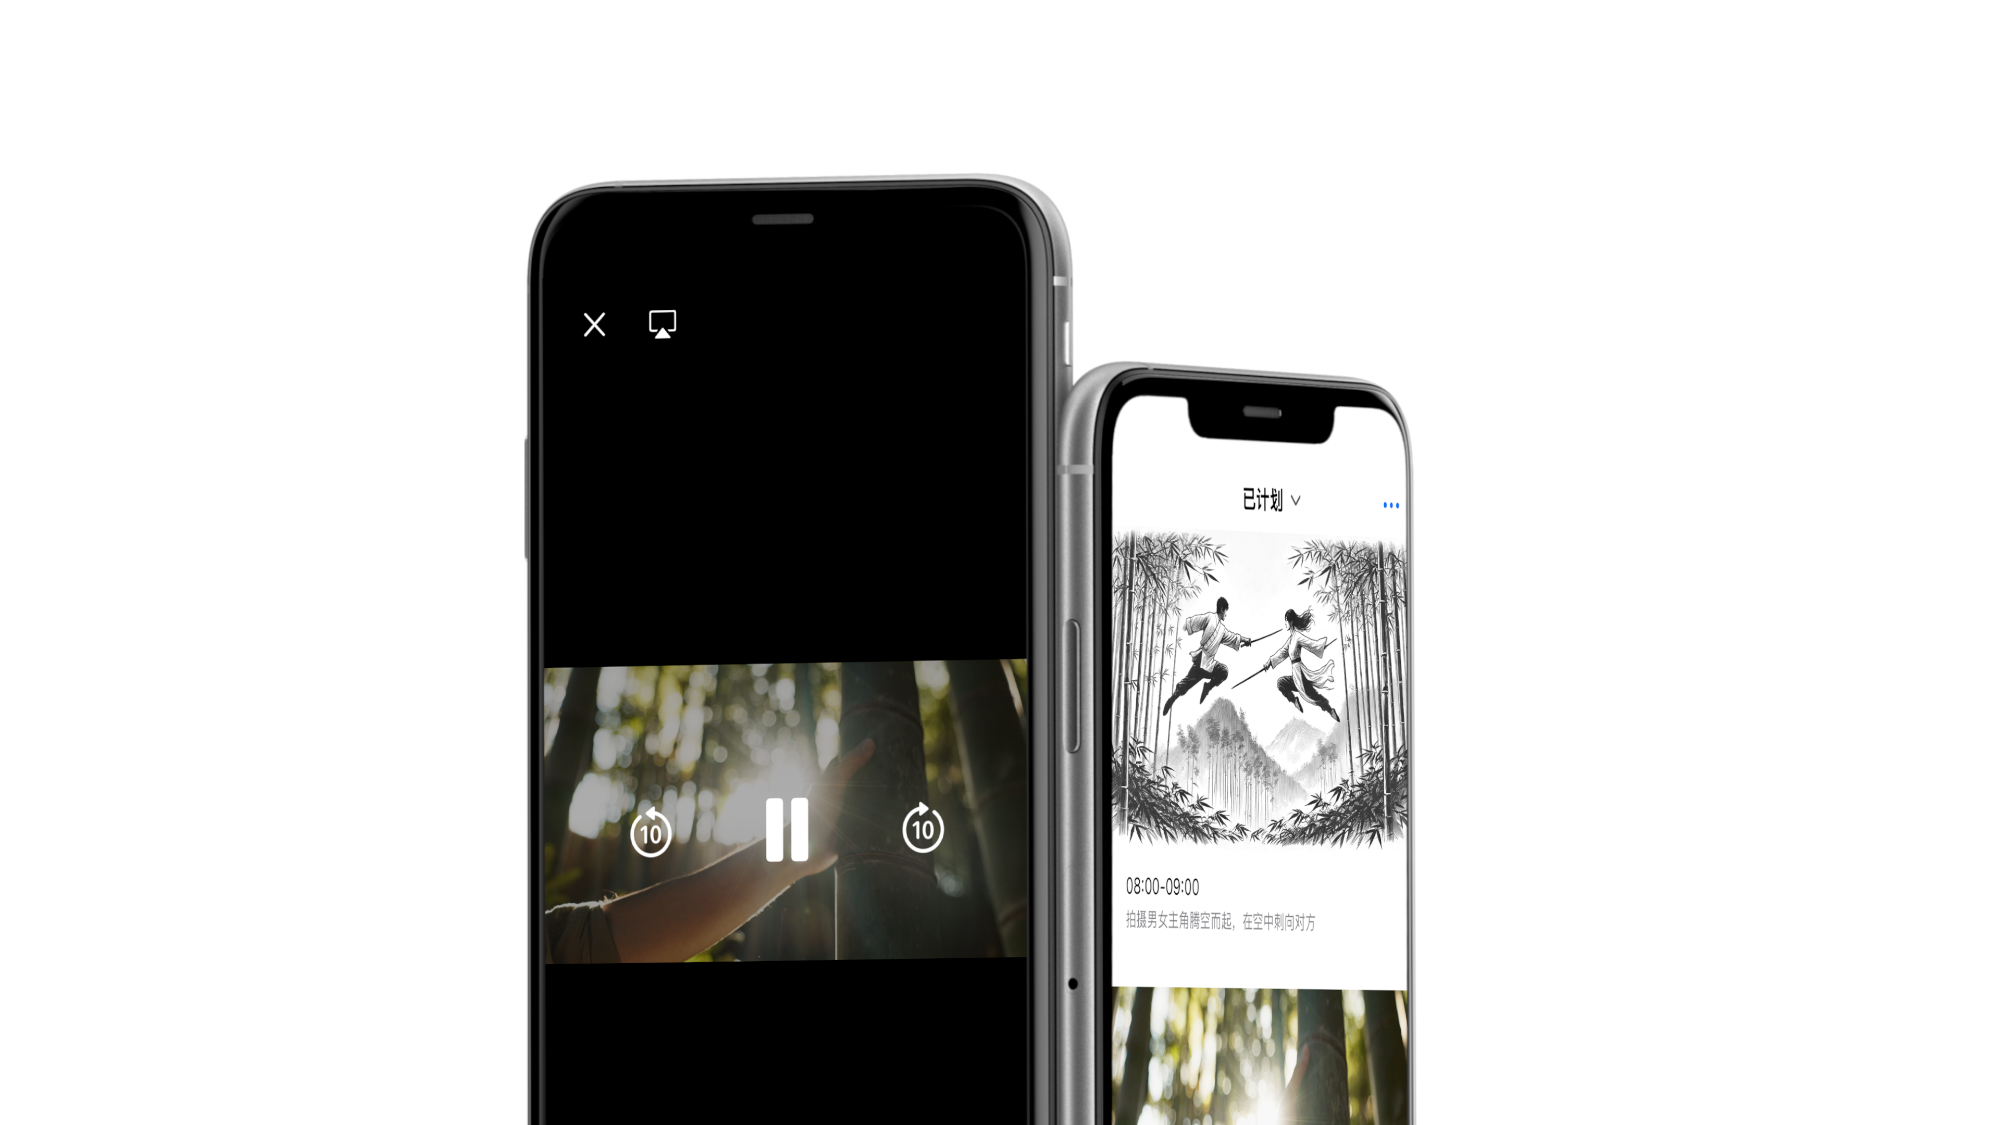
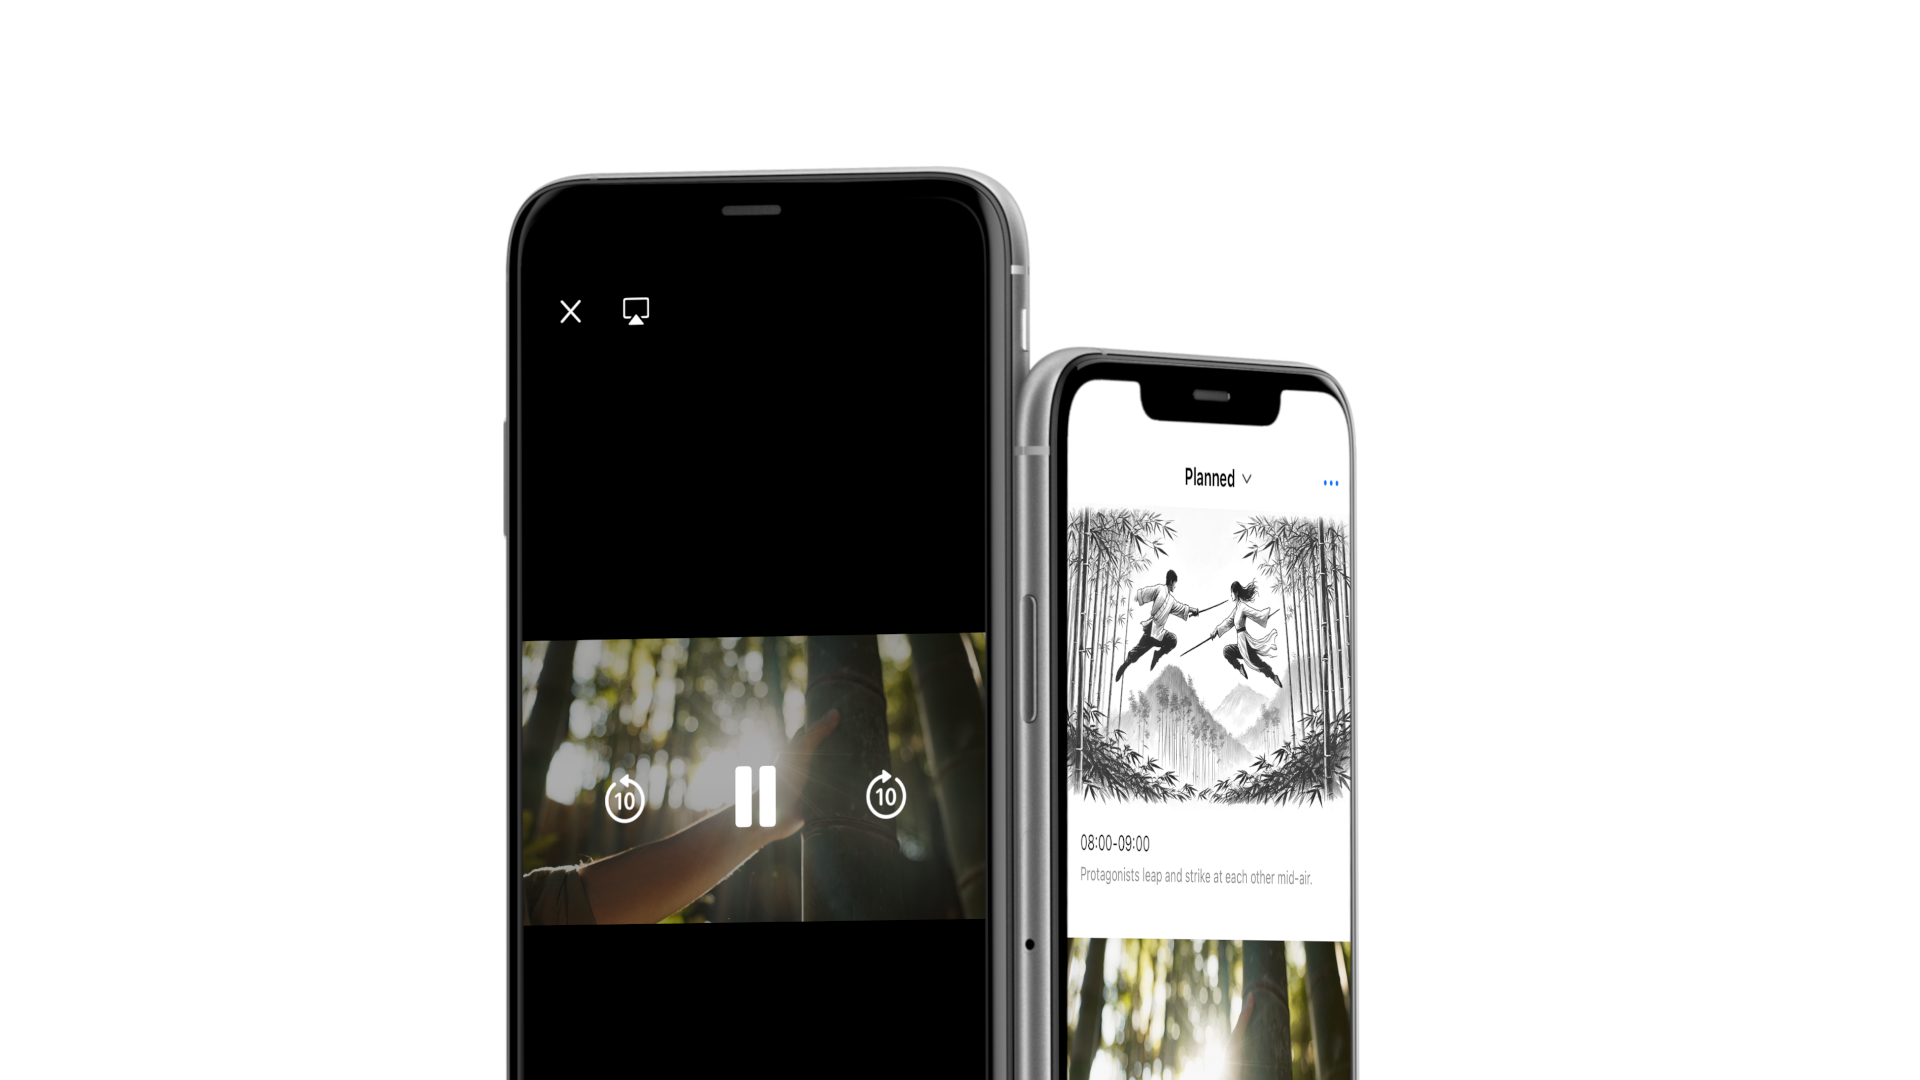
Update6.6.3: mobile 英文版，改图

Changed region(s): [[0.5312, 0.4278, 0.7188, 0.825], [0.5312, 0.8556, 0.7188, 1.0]]

diff --git a/mobile.html b/mobile.html
@@ -109,7 +109,7 @@
           </div>
 
           <div class="bottom-image-wrapper wow fadeInDown">
-            <img src="assets/images/mobile-swipe-zh.png" alt="Description">
+            <img src="assets/images/mobile-swipe.png" alt="Description">
           </div>
 
         </div>
@@ -138,7 +138,7 @@
           </div>
 
           <div class="bottom-image-wrapper wow fadeInDown">
-            <img src="assets/images/mobile-quicklog-zh.png" alt="Description">
+            <img src="assets/images/mobile-quicklog.png" alt="Description">
           </div>
 
         </div>
@@ -156,7 +156,7 @@
             </p>
           </div>
           <div class="image-wrapper wow fadeInDown">
-            <img src="assets/images/mobile-platform-zh.png" alt="Description">
+            <img src="assets/images/mobile-platform.png" alt="Description">
           </div>
 
         </div>
